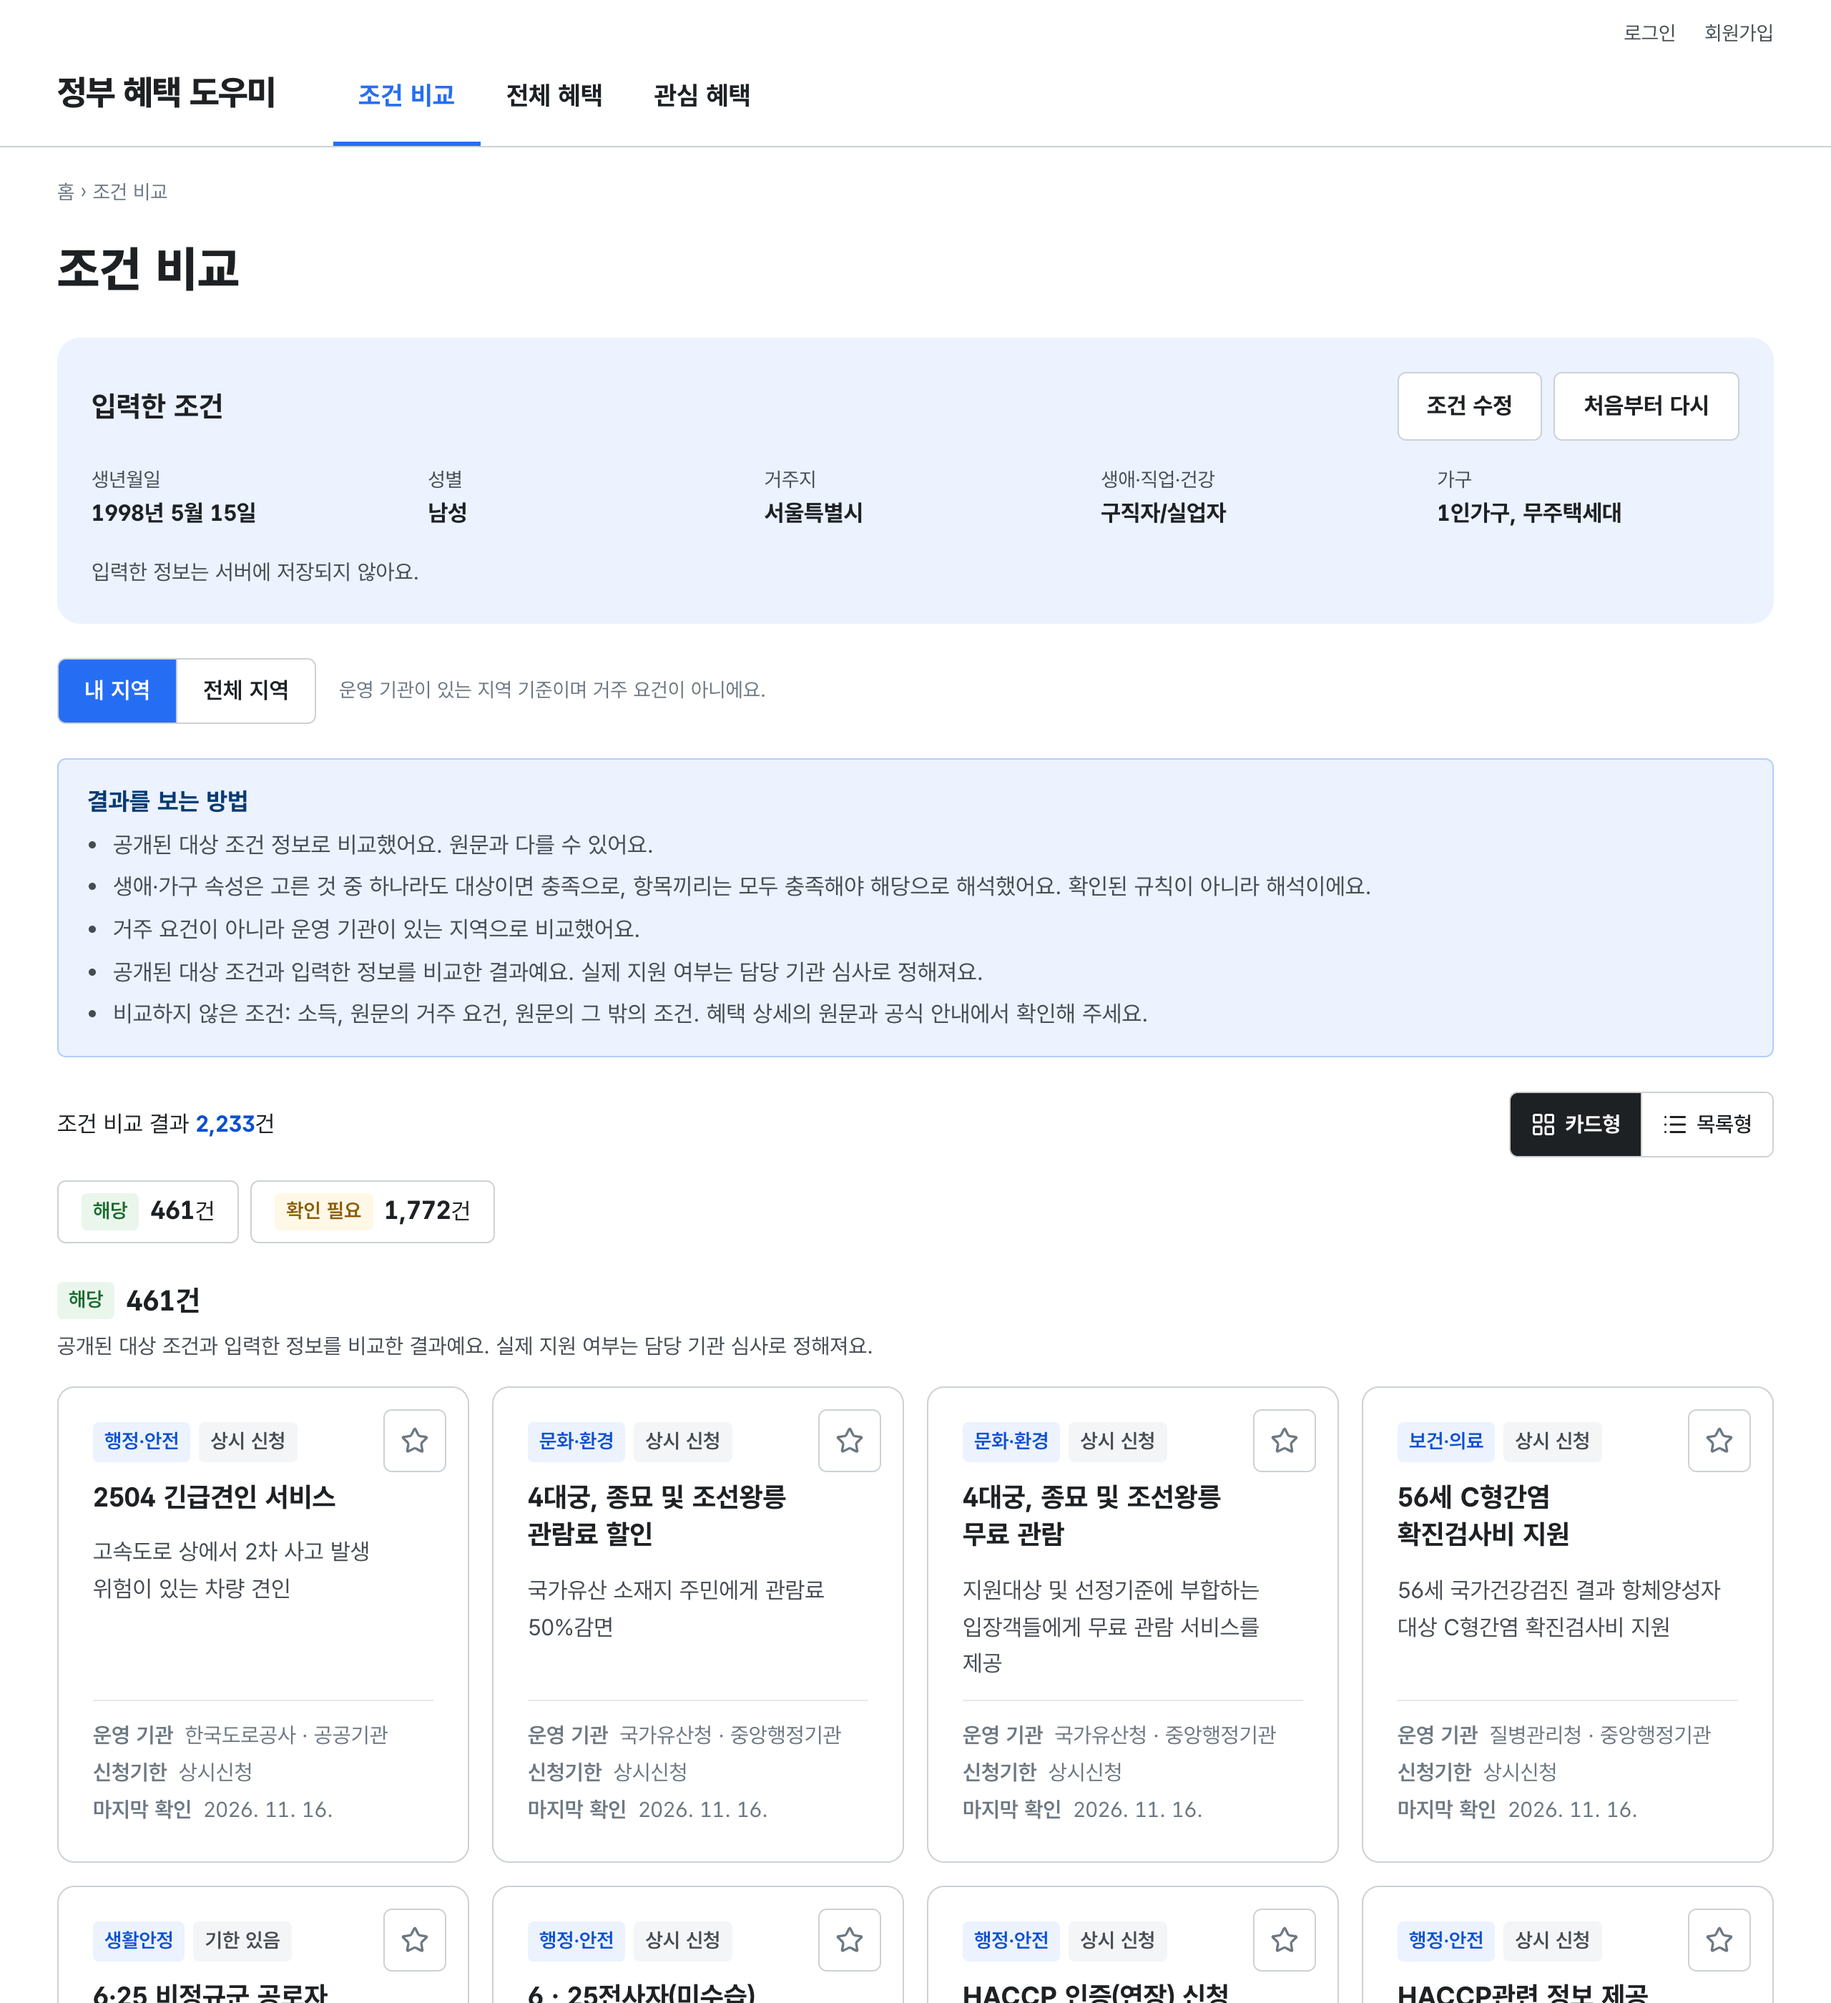
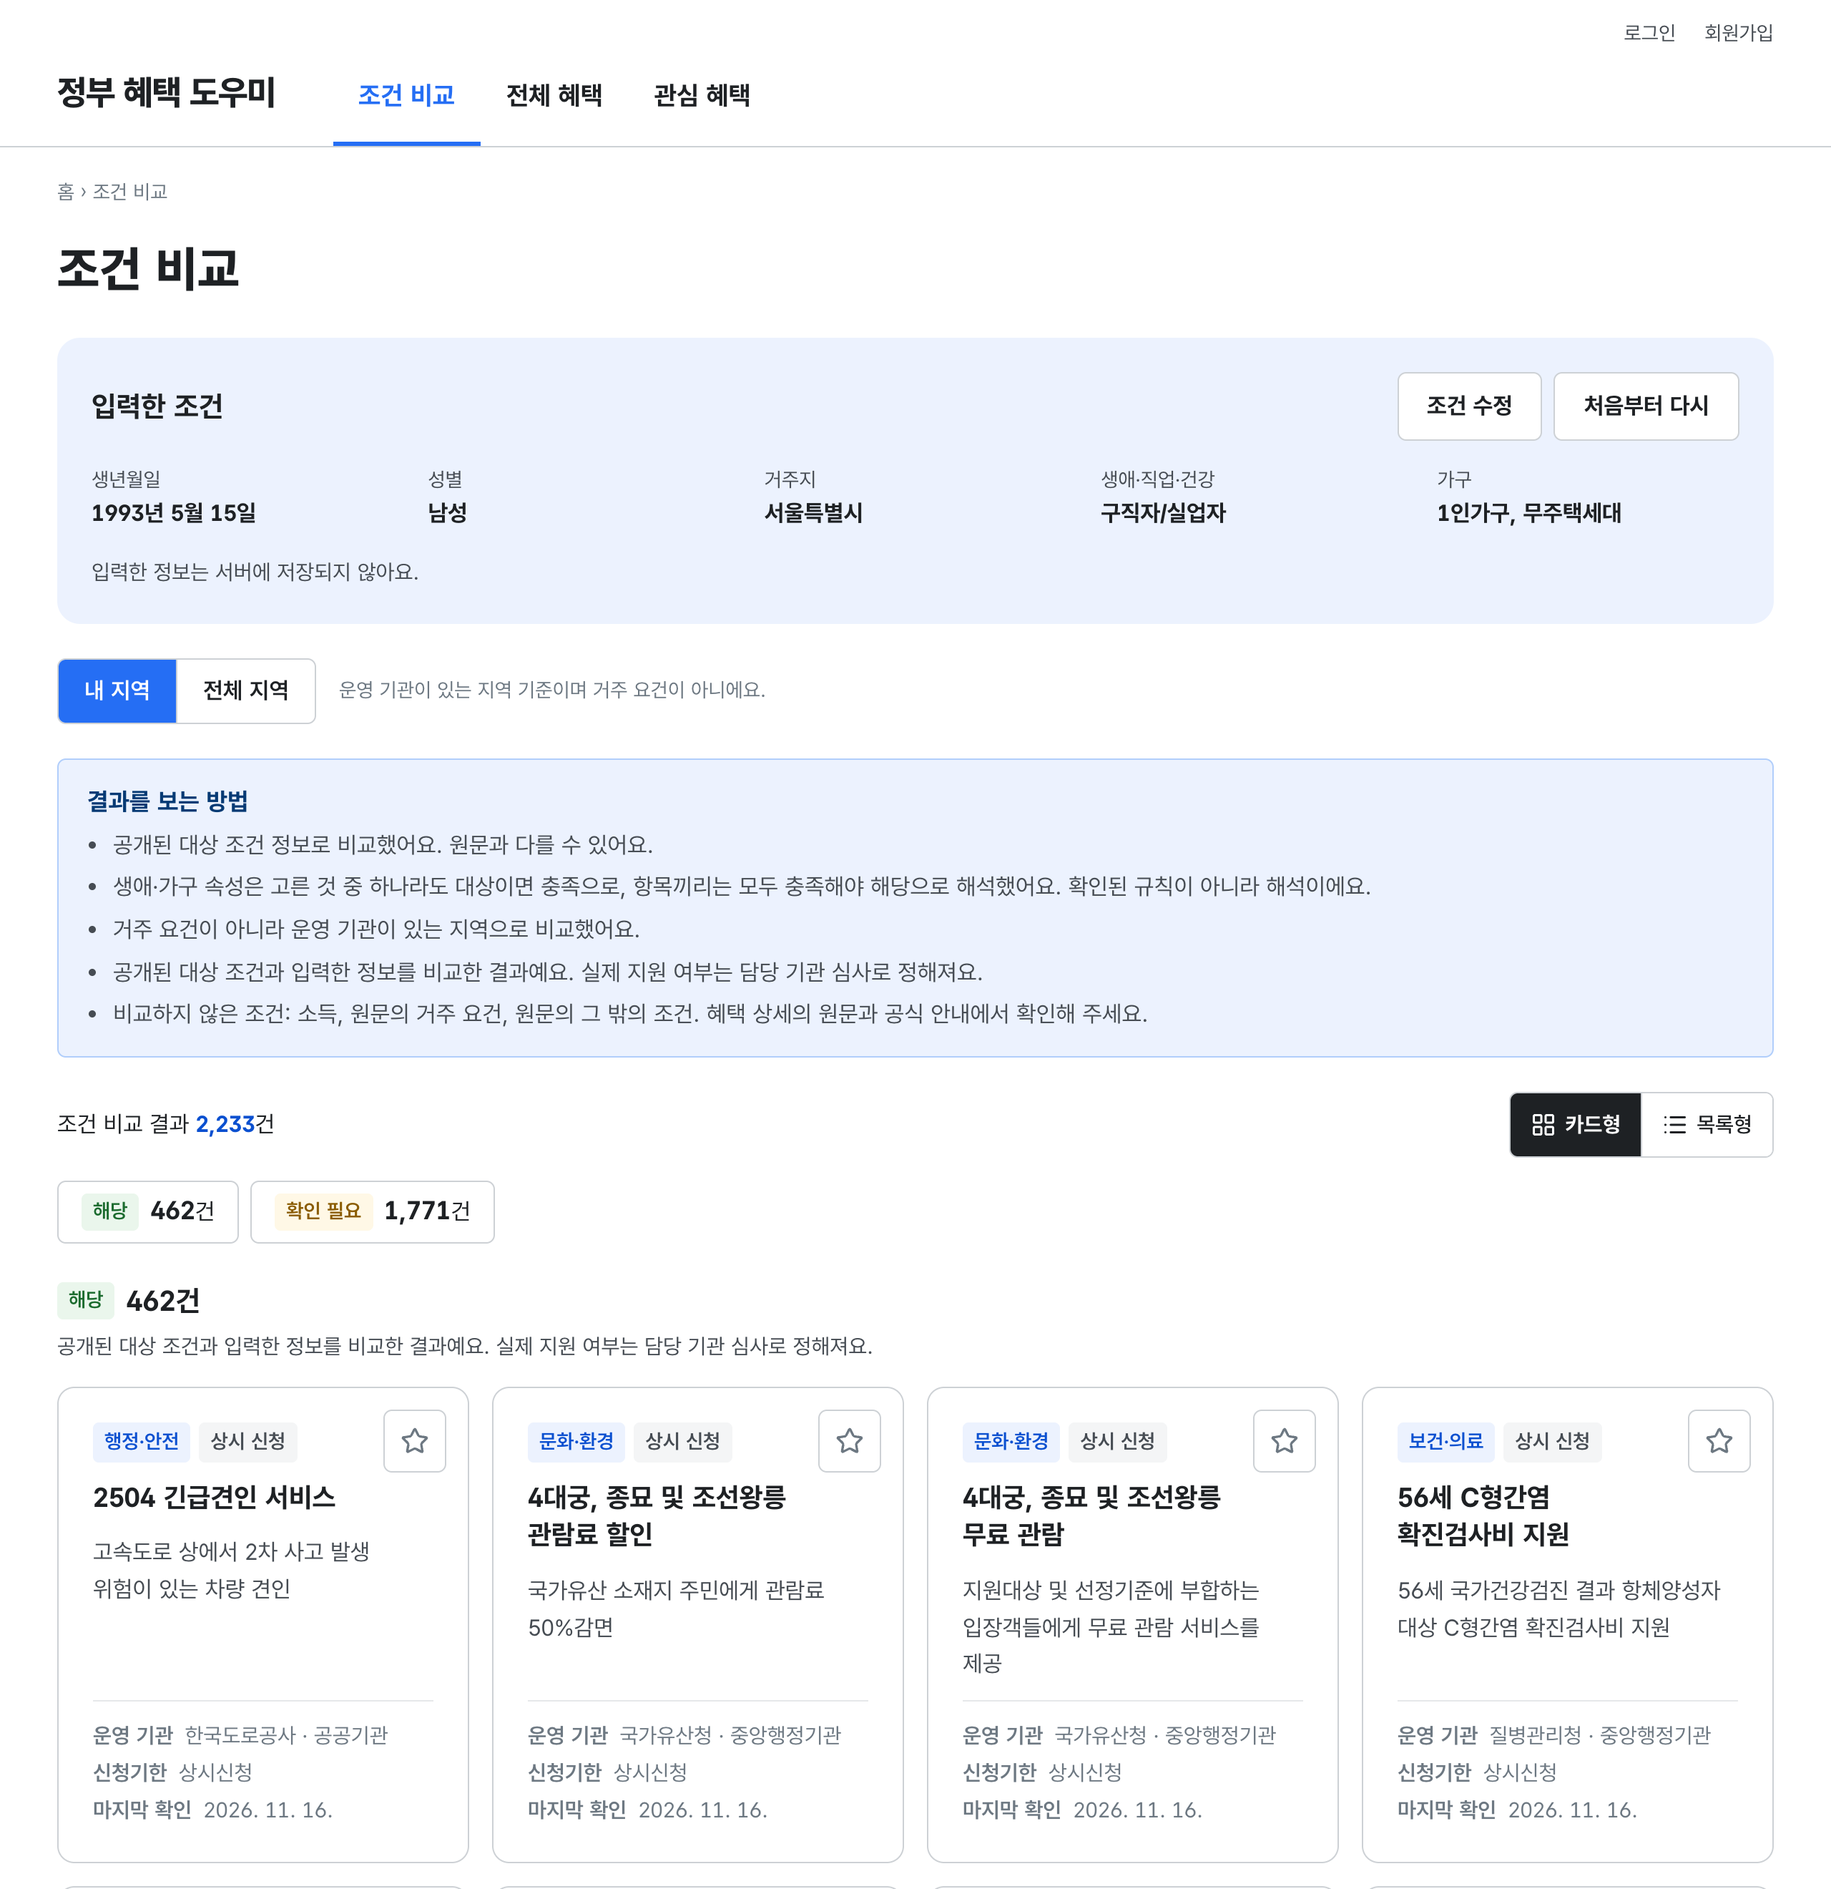
docs: README 화면 사진을 전체 폭으로 배치하고 다시 캡처 (#139)

diff --git a/README.md b/README.md
@@ -4,12 +4,13 @@
 
 서비스 주소: **<https://govbenefit.kr>**
 
-<p>
-  <img src="docs/images/readme/search.png" width="49%" alt="혜택 검색 화면">
-  <img src="docs/images/readme/match.png" width="49%" alt="조건 비교 결과 화면">
-</p>
+**혜택 검색**
 
-왼쪽은 혜택 검색, 오른쪽은 조건 비교 결과입니다.
+![혜택 검색 화면](docs/images/readme/search.png)
+
+**조건 비교 결과**
+
+![조건 비교 결과 화면](docs/images/readme/match.png)
 
 ## 주요 기능
 
